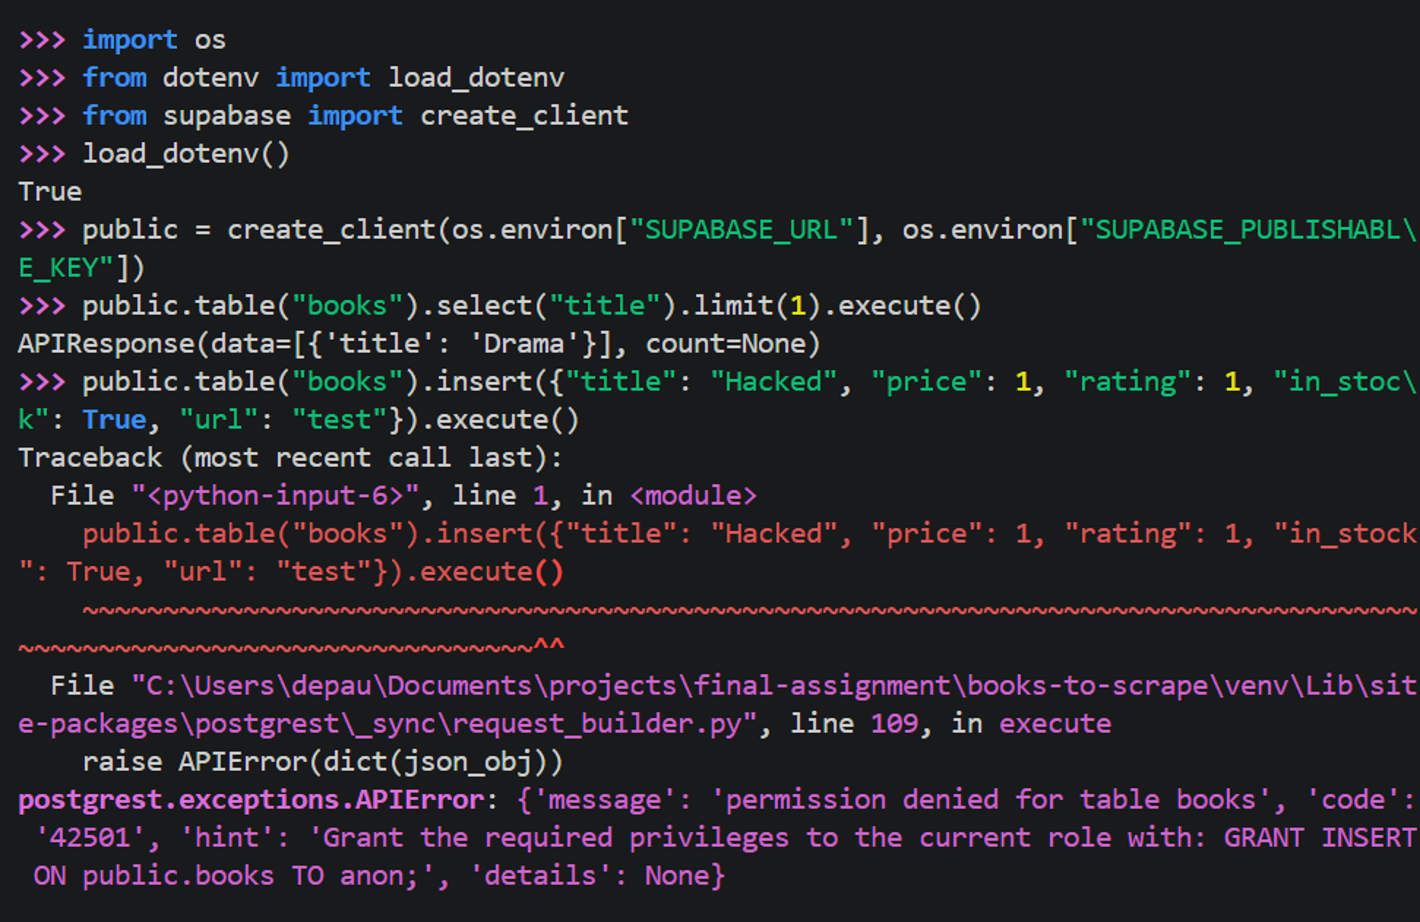
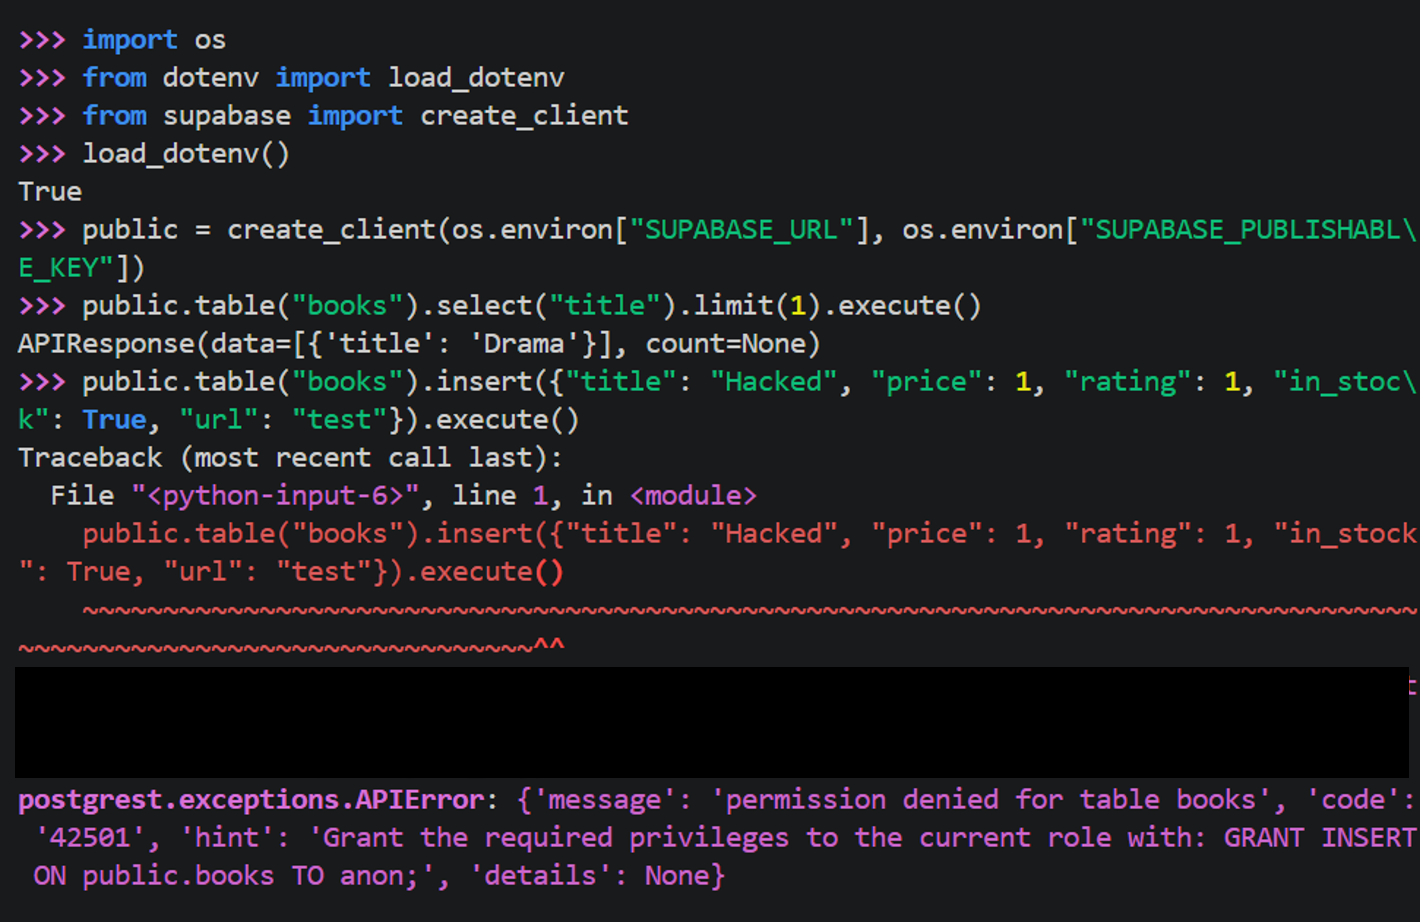
Books: address audit findings (UTF-8 requirements, explicit revoke in schema, README fixes, redacted screenshot)

Changed region(s): [[0.0, 0.6985, 0.9915, 0.8503]]

diff --git a/books-to-scrape/README.md b/books-to-scrape/README.md
@@ -43,7 +43,7 @@ books.toscrape.com  →  scraper.py  →  Supabase (books table)  →  app.py (S
 
 - **What:** one table, `books`, with the five fields above plus an automatic `id` and `created_at`. The table definition, including its security rules, is in [`schema.sql`](schema.sql).
 - **Where:** a hosted PostgreSQL database on [Supabase](https://supabase.com).
-- **Why Supabase / a database:** - **Why Supabase / a database:** Supabase was the database required for this course. Using it also made sense for the project: the scraped data has to outlive the script (a Python list disappears when the program ends), so the interface can show it without re-scraping the website every time. A database table also enforces fixed column types and rules (for example, a rating must be between 1 and 5, and each URL can appear only once), and it lets the scraper and the interface share the same data while having different permissions: the scraper can write, and the interface can only read.
+- **Why Supabase / a database:** Supabase was the database required for this course. Using it also made sense for the project: the scraped data has to outlive the script (a Python list disappears when the program ends), so the interface can show it without re-scraping the website every time. A database table also enforces fixed column types and rules (for example, a rating must be between 1 and 5, and each URL can appear only once), and it lets the scraper and the interface share the same data while having different permissions: the scraper can write, and the interface can only read.
 - **No duplicates:** `url` is `unique` in the table, and the scraper uses an **upsert** (`on_conflict="url"`): existing books are updated, new ones inserted. Running the scraper twice still leaves exactly 1,000 rows.
 
 ![Row count after two scraper runs](screenshots/supabase-count.png)
@@ -77,7 +77,7 @@ The keys are stored only in a local `.env` file, which is excluded by `.gitignor
 
 ## Setup
 
-**Requirements:** Python 3.9 or newer (developed with 3.14), a free [Supabase](https://supabase.com) account, and an internet connection.
+**Requirements:** Python 3 (developed and tested with 3.14), a free [Supabase](https://supabase.com) account, and an internet connection.
 
 1. **Clone the repository** and go into this folder:
    ```bash
